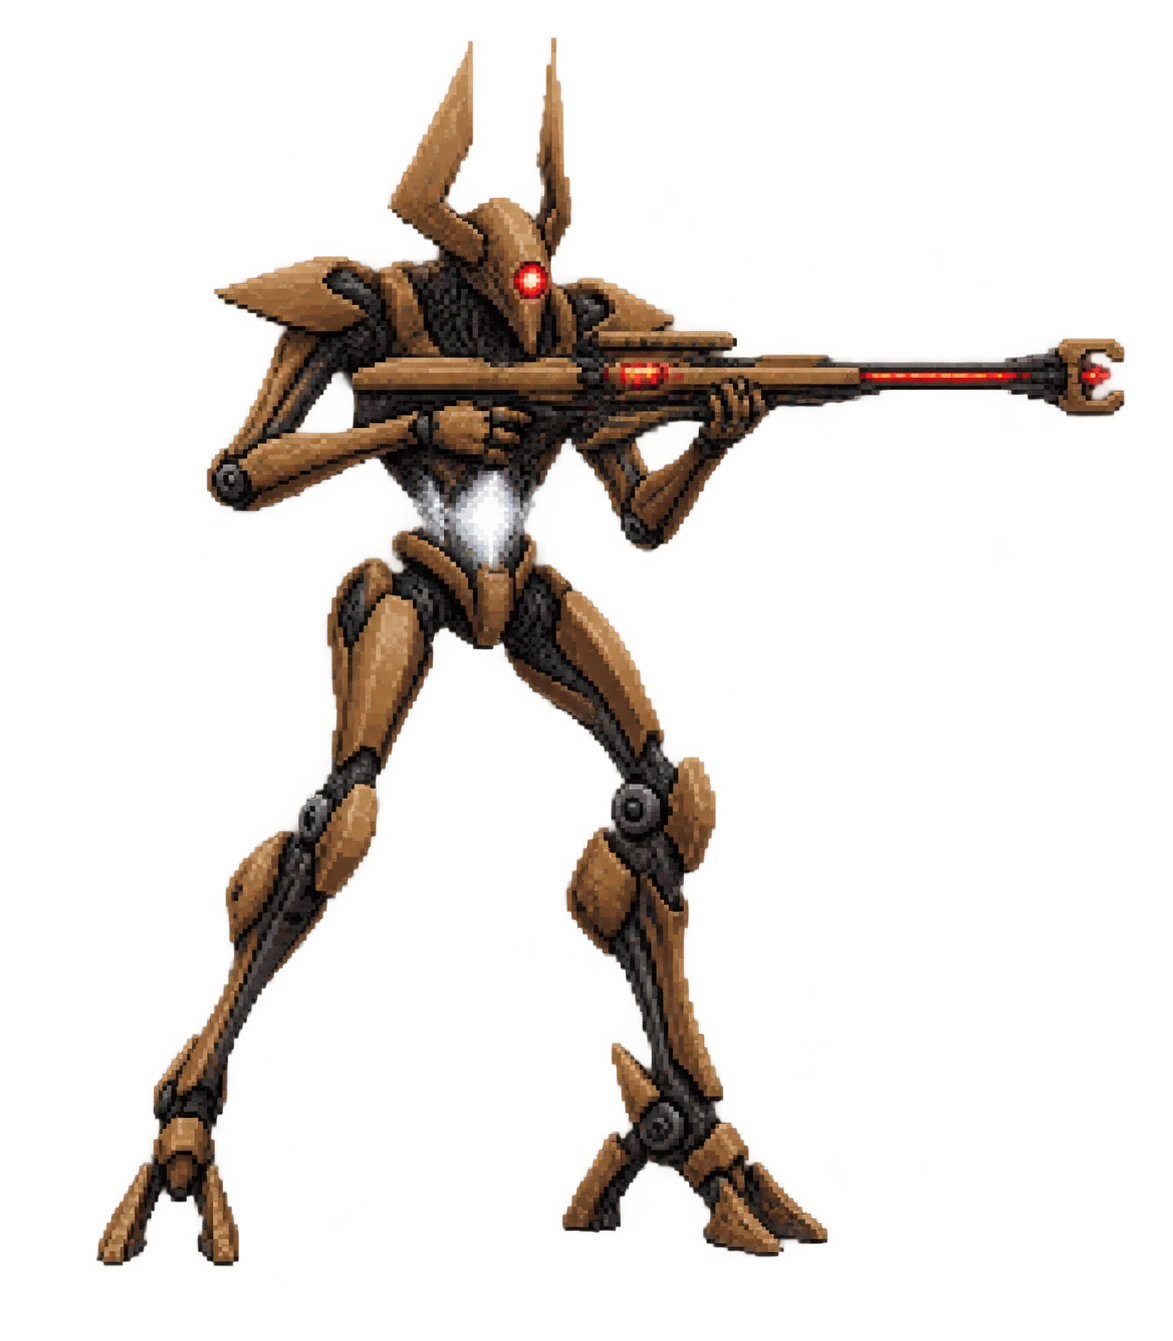
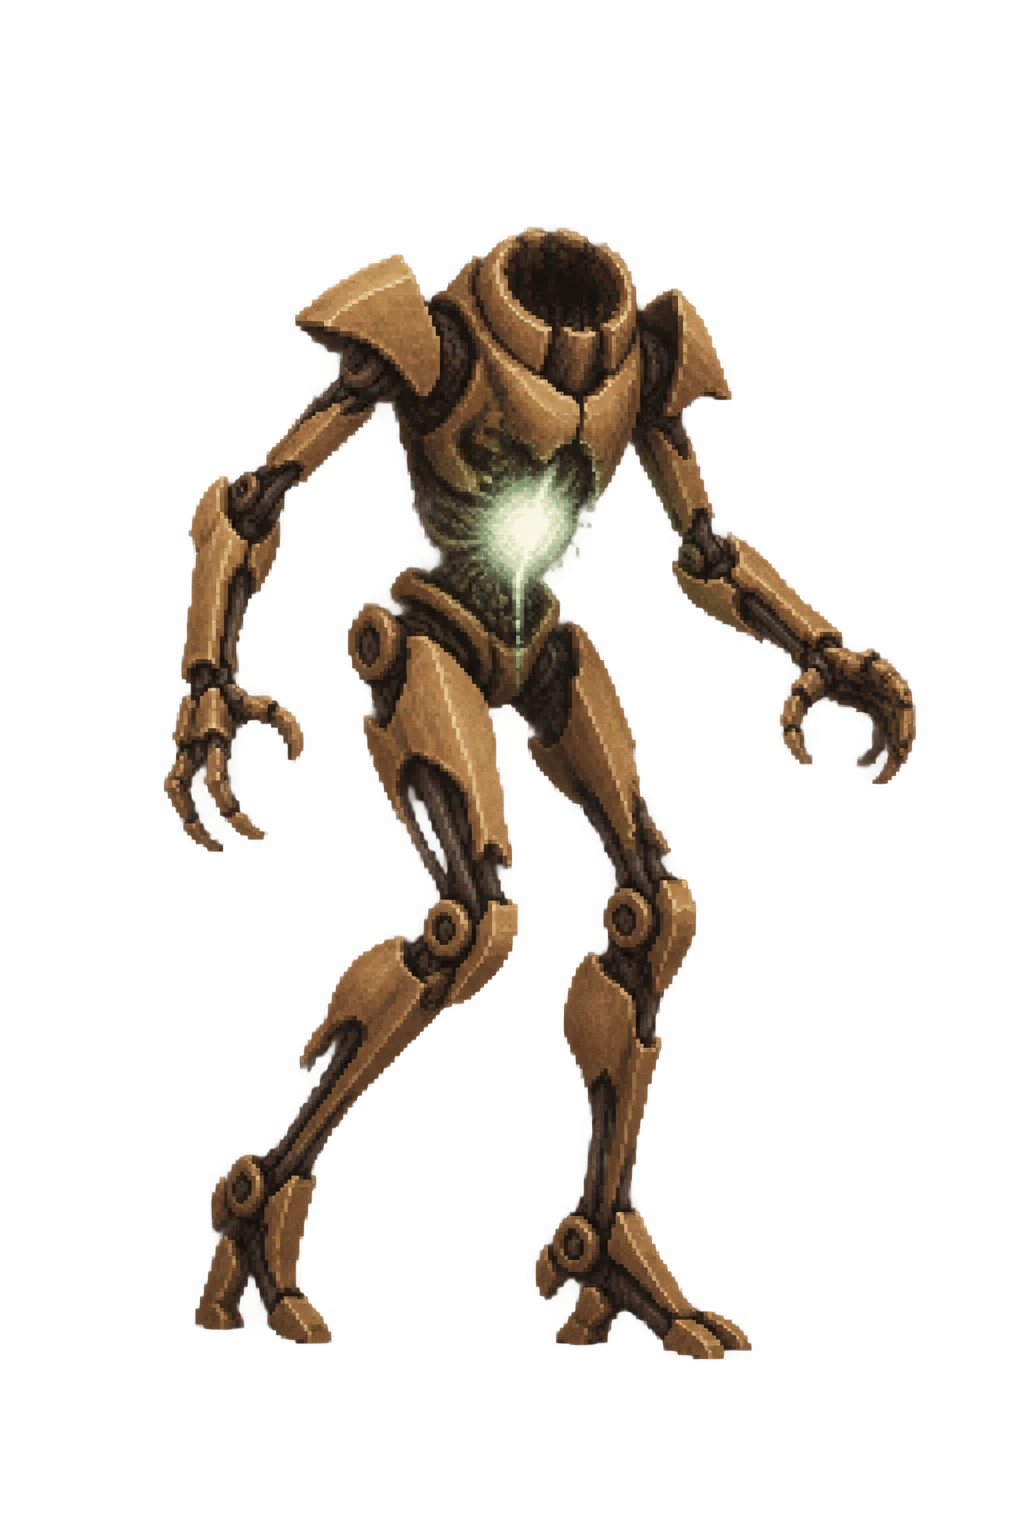
Vex: image 4 is the Fanatic (new sniper enemy), image 5 the Hobgoblin; drop the broken-goblin swap

Changed region(s): [[0.0625, 0.0306, 0.9688, 0.9478]]

diff --git a/battle/content.js b/battle/content.js
@@ -33,7 +33,8 @@
     servitor: { n: 'サーヴィター', fac: 'fallen', tpl: 'servitor', hp: 1300, atk: 80, spd: 4, brk: 60, weak: 'void', pal: { B: '#3a3a4c', b: '#24242f', H: '#6a6a88', D: '#120f1c', E: '#9b5cff' } },
     // Vex — brass, milky white, red eye
     goblin:   { n: 'ゴブリン', fac: 'vex', tpl: 'goblin', hp: 480, atk: 50, spd: 2, brk: 25, weak: 'void' },
-    hobgoblin:{ n: 'ホブゴブリン', fac: 'vex', tpl: 'goblin', hp: 700, atk: 85, spd: 3, brk: 40, weak: 'arc', scale: 1.05 },   // long-range sniper
+    fanatic:  { n: 'ファナティック', fac: 'vex', tpl: 'goblin', hp: 600, atk: 90, spd: 3, brk: 35, weak: 'arc', scale: 1.05 },   // long-range sniper
+    hobgoblin:{ n: 'ホブゴブリン', fac: 'vex', tpl: 'goblin', hp: 750, atk: 75, spd: 3, brk: 45, weak: 'solar', scale: 1.05 },   // clawed brute
     harpy:    { n: 'ハーピー', fac: 'vex', tpl: 'harpy', hp: 420, atk: 55, spd: 2, brk: 20, weak: 'solar', scale: 0.85 },
     minotaur: { n: 'ミノタウロス', fac: 'vex', tpl: 'minotaur', hp: 1700, atk: 105, spd: 4, brk: 80, weak: 'void', scale: 1.15, pal: { D: '#1f2a4a' } },
     hydra:    { n: 'ハイドラ', fac: 'vex', tpl: 'hydra', hp: 2000, atk: 110, spd: 4, brk: 90, weak: 'arc', scale: 1.2 },
@@ -90,7 +91,7 @@
       waves: [['legionary', 'goblin', 'goblin'], ['minotaur', 'harpy'], ['b_protheon', 'harpy']],
       reward: 550, drop: { chance: 0.3, pool: 'armor' } },
     { id: 's5', no: '1-5', name: '庭園の世界', act: '庭園の世界', lv: 3.4,
-      waves: [['goblin', 'harpy', 'hobgoblin'], ['hydra', 'minotaur'], ['b_mind', 'harpy', 'harpy']],
+      waves: [['goblin', 'harpy', 'fanatic'], ['hydra', 'hobgoblin'], ['b_mind', 'harpy', 'harpy']],
       reward: 600, drop: { chance: 0.35, pool: 'weapon' } },
     { id: 's6', no: '1-6', name: '汚染', act: '汚染', lv: 4.0,
       waves: [['t_thrall', 't_thrall', 't_psion'], ['t_knight', 't_psion'], ['b_sedia', 't_thrall']],
@@ -99,7 +100,7 @@
       waves: [['thrall', 'acolyte', 'wizard'], ['knight', 'knight'], ['b_vorgeth', 'acolyte']],
       reward: 800, drop: { chance: 0.4, pool: 'weapon' } },
     { id: 's8', no: '1-8', name: 'ガラスの間', act: 'ガラスの間', lv: 5.5,
-      waves: [['goblin', 'hobgoblin', 'harpy'], ['minotaur', 'hydra'], ['b_mobius', 'harpy', 'minotaur']],
+      waves: [['goblin', 'fanatic', 'harpy'], ['hobgoblin', 'minotaur', 'hydra'], ['b_mobius', 'harpy', 'minotaur']],
       reward: 1200, drop: { chance: 0.5, pool: 'exotic' } },
     // Farming stage (repeatable, glimmer-rich)
     { id: 'f1', no: 'EX', name: '戦場: 雹(グリマー回収)', act: '戦場: 雹', lv: 2.5, farm: true,

diff --git a/battle/game.js b/battle/game.js
@@ -1640,7 +1640,7 @@
 
     // ?art=hd → smooth illustrated enemies (art/enemies_hd, SD1.5 test set); default → pixel sprites (art/enemies)
     const ENEMY_ART_DIR = new URLSearchParams(location.search).get('art') === 'hd' ? 'enemies_hd' : 'enemies';
-    const ENEMY_ART_V = 2;   // bump when sprites in art/enemies are regenerated
+    const ENEMY_ART_V = 3;   // bump when sprites in art/enemies are regenerated
     const ART_CACHE = new Map();
     function enemyArt(key) {
       if (!ART_CACHE.has(key)) ART_CACHE.set(key, new Promise(res => {
@@ -1664,7 +1664,6 @@
           // painted pixel sprite (art/enemies/<key>.png, from tools/gen-enemies.js) when it exists; procedural art otherwise
           const im = await enemyArt(e.key);
           e.sprites = im ? [im, im, im] : [0, 1, 2].map(gl => Sprites.enemySprite(e.tpl, e.fac, e.weak, e.pal, gl));
-          e.sprBroken = im ? await enemyArt(e.key + '_broken') : null;   // optional look while BREAK is active (e.g. headless goblin)
         }
       }));
       B.target = Math.max(0, B.enemies.findIndex(e => e.boss));
@@ -2149,7 +2148,7 @@
       g.beginPath(); g.ellipse(e.x, e.y + 1, w * 0.32, 3 * e.depth, 0, 0, Math.PI * 2); g.fill();
       if (e.boss) { g.fillStyle = (e.aura || '#ffd28a') + '30'; g.beginPath(); g.ellipse(e.x, b.cy, w * 0.6, h * 0.55, 0, 0, Math.PI * 2); g.fill(); }
       const glow = Math.floor((Math.sin(B.time / 260 + e.phase) + 1) * 1.5) % 3;
-      const spr = (e.broken > 0 && e.sprBroken) || e.sprites[glow] || e.sprites[0];
+      const spr = e.sprites[glow] || e.sprites[0];
       const sink = e.hp <= 0 ? (1 - e.dieT) * 10 : 0;
       if (spr.illus || spr.pix) {
         // smooth illustration / painted pixel sprite: whole-image breathing + top sway (row slicing would band when downscaled)

diff --git a/battle/index.html b/battle/index.html
@@ -855,10 +855,10 @@ img.el-ic { width: 1.25em; height: 1.25em; object-fit: contain; vertical-align: 
 <body>
 <div id="app"><div class="loading">初期化中...</div></div>
 <div id="toast"></div>
-<script src="../manifest-trim.js?v=43"></script>
-<script src="pixelart.js?v=43"></script>
-<script src="sprites.js?v=43"></script>
-<script src="content.js?v=43"></script>
-<script src="game.js?v=43"></script>
+<script src="../manifest-trim.js?v=44"></script>
+<script src="pixelart.js?v=44"></script>
+<script src="sprites.js?v=44"></script>
+<script src="content.js?v=44"></script>
+<script src="game.js?v=44"></script>
 </body>
 </html>
